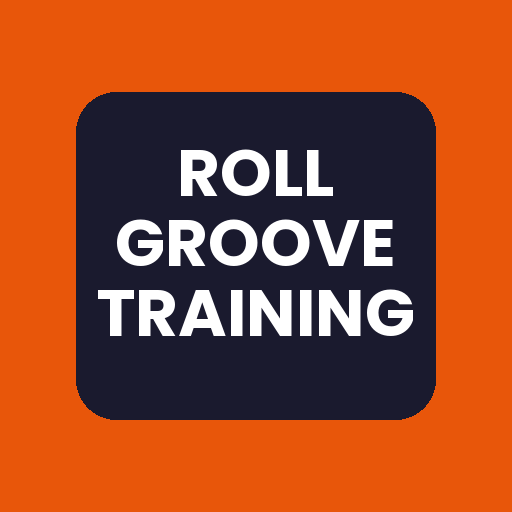
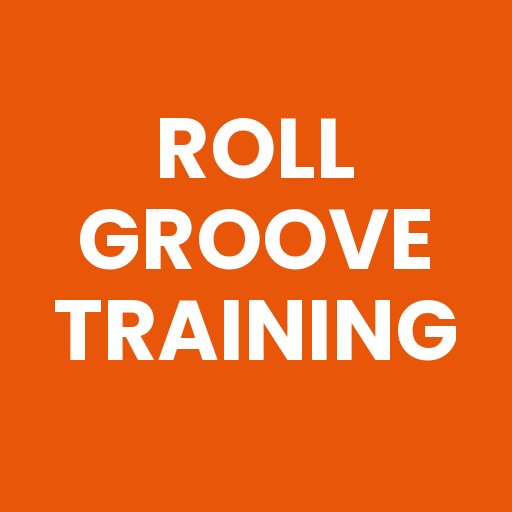
Add files via upload

diff --git a/index.html b/index.html
@@ -3,11 +3,11 @@
 <head>
 <meta charset="UTF-8">
 <meta name="viewport" content="width=device-width, initial-scale=1.0">
-<title>Roll Groove Training Record</title>
-<meta name="apple-mobile-web-app-title" content="Roll Groove Training Record">
+<title>Roll Groove Training</title>
+<meta name="apple-mobile-web-app-title" content="Roll Groove Training">
 <meta name="apple-mobile-web-app-capable" content="yes">
 <meta name="apple-mobile-web-app-status-bar-style" content="default">
-<meta name="application-name" content="Roll Groove Training Record">
+<meta name="application-name" content="Roll Groove Training">
 <link rel="manifest" href="manifest.json">
 <link rel="icon" type="image/png" sizes="192x192" href="icon-192.png">
 <link rel="icon" type="image/png" sizes="512x512" href="icon-512.png">
@@ -362,7 +362,7 @@ header {
 <header>
 <div class="header-inner">
   <div class="header-text">
-    <h1>Roll Groove Training Record</h1>
+    <h1>Roll Groove Training</h1>
     <p>Victaulic Training &amp; Attendance</p>
   </div>
   <div class="header-right">
@@ -702,7 +702,7 @@ function shareApp() {
   document.getElementById('hamburgerMenu').classList.remove('open');
   var url = window.location.href;
   if (navigator.share) {
-    navigator.share({ title: 'Roll Groove Training Record', url: url }).catch(function(){});
+    navigator.share({ title: 'Roll Groove Training', url: url }).catch(function(){});
   } else if (navigator.clipboard) {
     navigator.clipboard.writeText(url).then(function() {
       alert('Link copied to clipboard!');
@@ -1578,7 +1578,7 @@ function buildEmailBody(s) {
     lines.push((i+1) + '. ' + (a.firstName+' '+a.lastName).trim());
   });
   lines.push(div1);
-  lines.push('Sent via Roll Groove Training Record');
+  lines.push('Sent via Roll Groove Training');
   return lines.filter(function(l){ return l !== null; }).join('\n');
 }
 
@@ -1586,7 +1586,7 @@ function sendEmail() {
   if (!validateSession()) return;
   if (attendees.length === 0) { alert('Please add at least one attendee.'); return; }
   var s = getSessionInfo();
-  var subj = 'Roll Groove Training Record - ' + s.date + ' - ' + s.projectName;
+  var subj = 'Roll Groove Training - ' + s.date + ' - ' + s.projectName;
   var body = buildEmailBody(s);
   var em = '';
   try { var sv = localStorage.getItem('rgt_emails'); em = sv ? JSON.parse(sv).join(',') : ''; } catch(x) {}